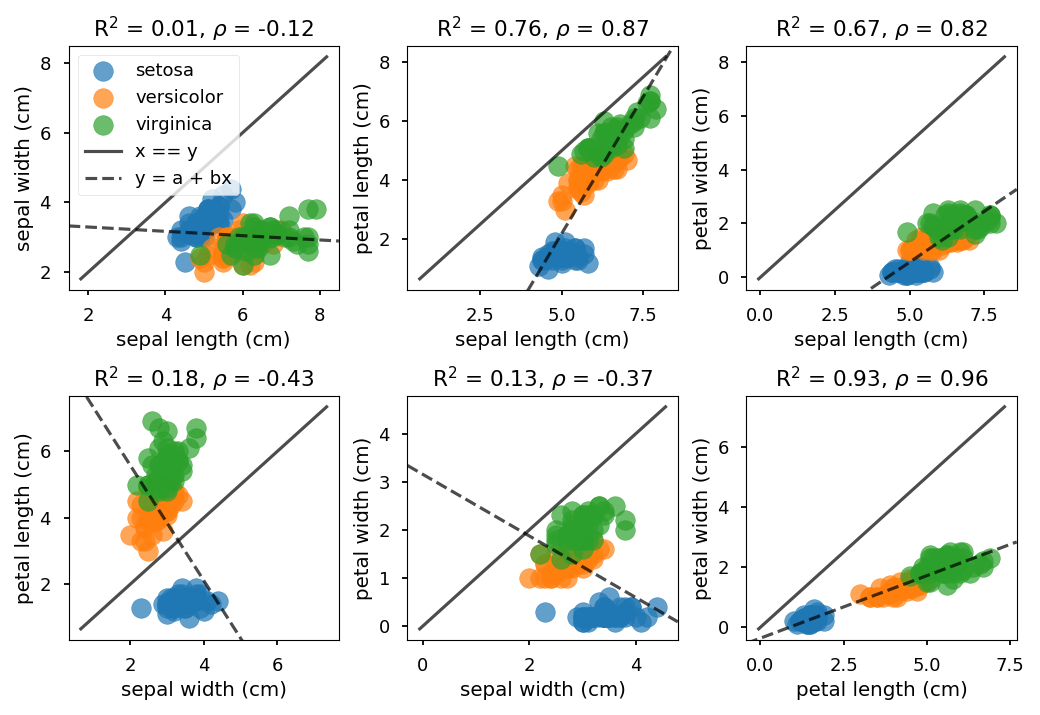
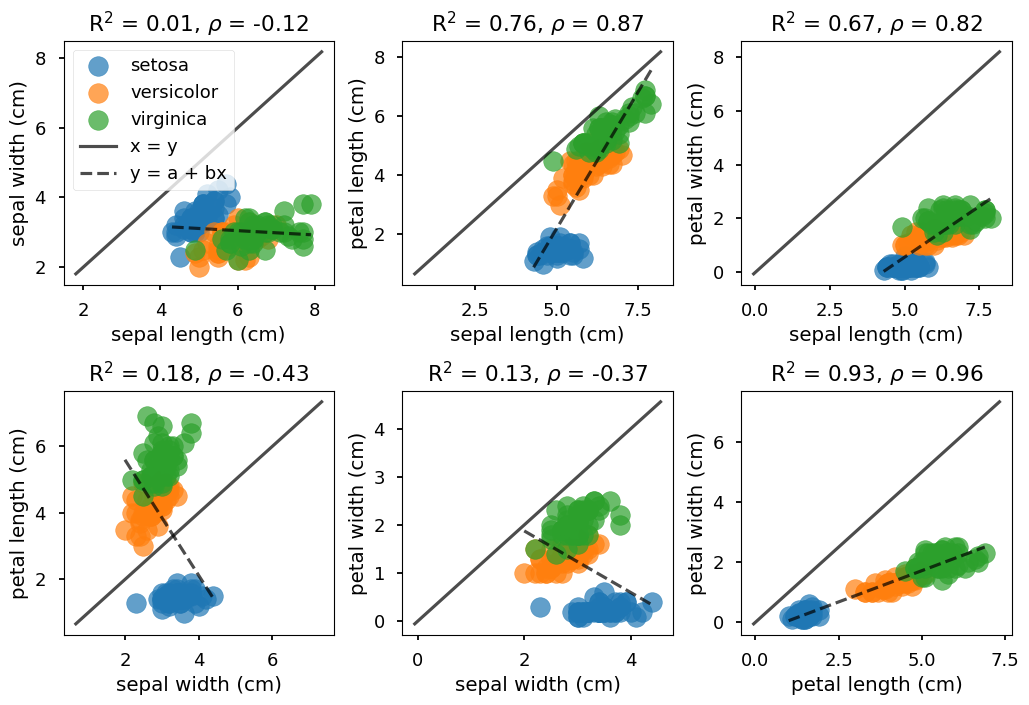
Added histogram.

diff --git a/psynlig/scatter.py b/psynlig/scatter.py
@@ -3,11 +3,10 @@
 """A module for generating scatter plots of variables."""
 from itertools import combinations
 import warnings
-import numpy as np
 from matplotlib import pyplot as plt
 from mpl_toolkits.mplot3d import Axes3D  # pylint: disable=unused-import
 from scipy.special import comb
-from .colors import generate_colors
+from .colors import generate_class_colors
 from .common import create_fig_and_axes, add_xy_line, add_trendline
 
 
@@ -18,37 +17,6 @@ _WARNING_MAX_PLOTS = (
     'all these plots, rerun the function with the '
     'argument "max_plots={0}".'
 )
-
-
-def _generate_class_colors(class_data):
-    """Generate colors for classes.
-
-    Parameters
-    ----------
-    class_data : object like :py:class:`numpy.ndarray` or None
-        The (numeric) labels for the data.
-
-    Returns
-    -------
-    color_class : list of objects like :py:class:`numpy.ndarray`
-        The colors generated.
-    color_labels : dict of objects like :py:class:`numpy.ndarray`
-        Colors for the different classes.
-    idx_class : dict of integers
-        Indices for data classes.
-
-    """
-    classes = None
-    color_class = None
-    color_labels = {}
-    idx_class = {}
-    if class_data is not None:
-        classes = list(set(class_data))
-        color_class = generate_colors(len(classes))
-        for i in classes:
-            color_labels[i] = color_class[i]
-            idx_class[i] = np.where(class_data == i)[0]
-    return color_class, color_labels, idx_class
 
 
 def create_scatter_legend(axi, color_labels, class_names, show=False,
@@ -120,9 +88,16 @@ def plot_scatter(data, xvar, yvar, axi=None, class_data=None, class_names=None,
     kwargs : dict, optional
         Additional settings for the plotting.
 
+    Returns
+    -------
+    fig : object like :py:class:`matplotlib.figure.Figure`
+        The figure containing the plot.
+    axi : object like py:class:`matplotlib.axes.Axes`
+        The axis containing the plot.
+
     """
     patches, labels = [], []
-    color_class, color_labels, idx_class = _generate_class_colors(class_data)
+    color_class, color_labels, idx_class = generate_class_colors(class_data)
     fig = None
     if axi is None:
         fig, axi = plt.subplots()
@@ -144,7 +119,7 @@ def plot_scatter(data, xvar, yvar, axi=None, class_data=None, class_names=None,
     if xy_line:
         line_xy = add_xy_line(axi, alpha=0.7, color='black')
         patches.append(line_xy)
-        labels.append('x == y')
+        labels.append('x = y')
     if trendline:
         line_trend = add_trendline(axi, data[xvar], data[yvar],
                                    alpha=0.7, ls='--', color='black')
@@ -158,7 +133,8 @@ def plot_scatter(data, xvar, yvar, axi=None, class_data=None, class_names=None,
 
 
 def generate_scatter(data, variables, class_data=None, class_names=None,
-                     max_plot_scatter=6, ncol=3, **kwargs):
+                     max_plots=6, ncol=3, sharex=False, sharey=False,
+                     **kwargs):
     """Generate 2D scatter plots from the given data and variables.
 
     This method will generate 2D scatter plots for all combinations
@@ -174,17 +150,29 @@ def generate_scatter(data, variables, class_data=None, class_names=None,
         Class information for the points (if available).
     class_names : dict of strings, optional
         A mapping from the class data to labels/names.
-    max_plot_scatter : integer
+    max_plots : integer, optional
         The maximun number of plots in a figure.
-    ncol : integer
+    ncol : integer, optional
         The number of columns to use in a figure.
+    sharex : boolean, optional
+        If True, the scatter plots will share the x-axis.
+    sharey : boolean, optional
+        If True, the scatter plots will share the y-axis.
     kwargs : dict, optional
         Additional arguments used for the plotting.
+
+    Returns
+    -------
+    figures : list of object like :py:class:`matplotlib.figure.Figure`
+        The figures containing the plots.
+    axes : list of object like py:class:`matplotlib.axes.Axes`
+        The axes containing the plots.
 
     """
 
     nplots = comb(len(variables), 2, exact=True)
-    figures, axes = create_fig_and_axes(nplots, max_plot_scatter, ncol=ncol)
+    figures, axes = create_fig_and_axes(nplots, max_plots, ncol=ncol,
+                                        sharex=sharex, sharey=sharey)
 
     fig = None
     for i, (xvar, yvar) in enumerate(combinations(variables, 2)):
@@ -236,7 +224,7 @@ def plot_3d_scatter(data, xvar, yvar, zvar, class_data=None,
         The axis containing the plot.
 
     """
-    color_class, color_labels, idx_class = _generate_class_colors(class_data)
+    color_class, color_labels, idx_class = generate_class_colors(class_data)
     fig = plt.figure()
     axi = fig.add_subplot(111, projection='3d')
     axi.set_xlabel(xvar, labelpad=15)

diff --git a/psynlig/histogram.py b/psynlig/histogram.py
@@ -1,0 +1,74 @@
+# Copyright (c) 2020, Anders Lervik.
+# Distributed under the MIT License. See LICENSE for more info.
+"""A module for generating histograms plots of variables."""
+from .colors import generate_class_colors
+from .common import create_fig_and_axes
+
+
+def histograms(data, variables, class_data=None, class_names=None,
+               max_plots=6, ncol=3, sharex=False, sharey=False, **kwargs):
+    """Generate histogram(s) from the given data.
+
+    Parameters
+    ----------
+    data : object like :py:class:`pandas.core.frame.DataFrame`
+        The data we are plotting.
+    variables : list of strings
+        The variables we are going to plot for.
+    class_data : object like, optional
+        Class information for the points (if available).
+    class_names : dict of strings
+        A mapping from the class data to labels/names.
+    max_plots : integer
+        Maximum number of plots to keep in one figure.
+    ncol : integer
+        Number of columns to use when plotting several histograms
+        in the same figure.
+    sharex : boolean, optional
+        If True, the histograms will share the x-axis.
+    sharey : boolean, optional
+        If True, the histograms will share the y-axis.
+    kwargs : dict, optional
+        Additional settings for the plotting.
+
+    Returns
+    -------
+    figures : list of object like :py:class:`matplotlib.figure.Figure`
+        The figures containing the plots.
+    axes : list of object like py:class:`matplotlib.axes.Axes`
+        The axes containing the plots
+
+    """
+    nplots = len(variables)
+    figures, axes = create_fig_and_axes(
+        nplots,
+        max_plots,
+        ncol=ncol,
+        sharex=sharex,
+        sharey=sharey
+    )
+    color_class, _, idx_class = generate_class_colors(class_data)
+    fig = None
+    for i, xvar in enumerate(variables):
+        show_legend = False
+        if axes[i].figure != fig:
+            fig = axes[i].figure
+            show_legend = True
+        axes[i].set(xlabel=xvar, ylabel='Frequency')
+        if class_data is None:
+            axes[i].hist(data[xvar], **kwargs)
+        else:
+            for class_id, idx in idx_class.items():
+                axes[i].hist(
+                    data[xvar][idx],
+                    color=color_class[class_id],
+                    label=class_names[class_id],
+                    density=False,
+                    **kwargs
+                )
+                if show_legend:
+                    axes[i].legend()
+    for fig in figures:
+        fig.tight_layout()
+        fig.tight_layout()
+    return figures, axes

diff --git a/psynlig/common.py b/psynlig/common.py
@@ -29,7 +29,7 @@ def create_grid(n_plots, ncol):
     return grid
 
 
-def create_fig_and_axes(nplots, max_plots, ncol=3):
+def create_fig_and_axes(nplots, max_plots, ncol=3, sharex=False, sharey=False):
     """Create a set of figures and axes.
 
     The number of plots per figure is limited to the given parameter
@@ -43,6 +43,10 @@ def create_fig_and_axes(nplots, max_plots, ncol=3):
         The maximum number of plots in a figure.
     ncol : integer
         The number of columns to create in each plot.
+    sharex : boolean
+        If True, the axes will share the x-axis.
+    sharey : boolean
+        If True, the axes will share the y-axis.
 
     Returns
     -------
@@ -65,9 +69,22 @@ def create_fig_and_axes(nplots, max_plots, ncol=3):
         nplots -= plots
         figi = plt.figure()
         figures.append(figi)
+        ax0 = None
         for j in range(plots):
             row, col = divmod(j, ncol)
-            axi = figi.add_subplot(grid[row, col])
+            if ax0 is None:
+                ax0 = axi = figi.add_subplot(grid[row, col])
+            else:
+                if sharex and sharey:
+                    axi = figi.add_subplot(grid[row, col],
+                                           sharex=ax0, sharey=ax0)
+                else:
+                    if sharex:
+                        axi = figi.add_subplot(grid[row, col], sharex=ax0)
+                    elif sharey:
+                        axi = figi.add_subplot(grid[row, col], sharey=ax0)
+                    else:
+                        axi = figi.add_subplot(grid[row, col])
             axes.append(axi)
     return figures, axes
 
@@ -117,16 +134,11 @@ def add_trendline(axi, xdata, ydata, **kwargs):
     param = np.polyfit(xdata, ydata, 1)
     yhat = np.polyval(param, xdata)
     rsq = get_rsquared(ydata, yhat)
-    xlim, ylim = axi.get_xlim(), axi.get_ylim()
     corr = pearsonr(xdata, ydata)
     text = r'R$^2$ = {:.2f}, $\rho$ = {:.2f}'.format(rsq, corr[0])
-    lim_min = np.min([axi.get_xlim(), axi.get_ylim()])
-    lim_max = np.max([axi.get_xlim(), axi.get_ylim()])
-    xpoint = np.array([lim_min, lim_max])
+    xpoint = np.array([min(xdata), max(xdata)])
     line, = axi.plot(xpoint, np.polyval(param, xpoint), **kwargs)
     axi.set_title(text)
-    axi.set_xlim(xlim)
-    axi.set_ylim(ylim)
     return line
 
 

diff --git a/psynlig/colors.py b/psynlig/colors.py
@@ -36,3 +36,34 @@ def generate_colors(ncolors, cmap_name=None):
         return cmap(np.linspace(0, 1, 20))
     cmap = get_cmap(name='viridis')
     return cmap(np.linspace(0, 1, ncolors))
+
+
+def generate_class_colors(class_data):
+    """Generate colors for classes.
+
+    Parameters
+    ----------
+    class_data : object like :py:class:`numpy.ndarray` or None
+        The (numeric) labels for the data.
+
+    Returns
+    -------
+    color_class : list of objects like :py:class:`numpy.ndarray`
+        The colors generated.
+    color_labels : dict of objects like :py:class:`numpy.ndarray`
+        Colors for the different classes.
+    idx_class : dict of integers
+        Indices for data classes.
+
+    """
+    classes = None
+    color_class = None
+    color_labels = {}
+    idx_class = {}
+    if class_data is not None:
+        classes = list(set(class_data))
+        color_class = generate_colors(len(classes))
+        for i in classes:
+            color_labels[i] = color_class[i]
+            idx_class[i] = np.where(class_data == i)[0]
+    return color_class, color_labels, idx_class

diff --git a/examples/histogram/histogram_readme.py b/examples/histogram/histogram_readme.py
@@ -4,7 +4,7 @@
 from matplotlib import pyplot as plt
 import pandas as pd
 from sklearn.datasets import load_iris
-from psynlig import generate_scatter
+from psynlig import histograms
 plt.style.use('seaborn-talk')
 
 
@@ -14,7 +14,8 @@ class_data = data_set['target']
 class_names = dict(enumerate(data_set['target_names']))
 variables = ['sepal length (cm)', 'sepal width (cm)',
              'petal length (cm)', 'petal width (cm)']
-figs, _ = generate_scatter(data, variables, class_names=class_names,
-                           class_data=class_data, marker='o', s=200, alpha=0.7)
-figs[0].savefig('scatter2d.png', bbox_inches='tight')
+figs, _ = histograms(data, variables, class_names=class_names,
+                     class_data=class_data, ncol=2, max_plots=4,
+                     edgecolor='black', alpha=0.8)
+figs[0].savefig('histogram.png', bbox_inches='tight')
 plt.show()

diff --git a/examples/scatter/scatter_readme_3d.py b/examples/scatter/scatter_readme_3d.py
@@ -12,7 +12,8 @@ data_set = load_iris()
 data = pd.DataFrame(data_set['data'], columns=data_set['feature_names'])
 class_data = data_set['target']
 class_names = dict(enumerate(data_set['target_names']))
-plot_3d_scatter(data, 'sepal length (cm)', 'sepal width (cm)',
-                'petal length (cm)', class_names=class_names,
-                class_data=class_data, marker='o', s=200, alpha=0.7)
+fig, _ = plot_3d_scatter(data, 'sepal length (cm)', 'sepal width (cm)',
+                         'petal length (cm)', class_names=class_names,
+                         class_data=class_data, marker='o', s=200, alpha=0.7)
+fig.savefig('scatter3d.png', bbox_inches='tight')
 plt.show()

diff --git a/examples/scatter/scatter_2d.py b/examples/scatter/scatter_2d.py
@@ -49,7 +49,7 @@ def main():
         variables,
         class_names=class_names,
         class_data=class_data,
-        max_plot_scatter=6,
+        max_plots=6,
         ncol=3,
         marker='o',
         s=200,

diff --git a/psynlig/__init__.py b/psynlig/__init__.py
@@ -10,3 +10,4 @@ from .scatter import (
     plot_scatter,
     generate_scatter,
 )
+from .histogram import histograms

diff --git a/README.md b/README.md
@@ -5,6 +5,7 @@ A library for creating plots with matplotlib.
 ## Examples
 
 ### Generating a heat map for correlations
+
 The following code
 ```python
 from matplotlib import pyplot as plt
@@ -25,7 +26,8 @@ will generate the following figure:
 
 ![heatmap](examples/heat_correlation/heatmap_example.png)
 
-## Generating scatter plots for raw data
+### Generating scatter plots for raw data
+
 The following code
 ```python
 from matplotlib import pyplot as plt
@@ -71,3 +73,29 @@ plt.show()
 will generate the following figure:
 ![scatter2d](examples/scatter/scatter2d.png)
 
+### Generating histograms
+
+The following code
+```python
+from matplotlib import pyplot as plt
+import pandas as pd
+from sklearn.datasets import load_iris
+from psynlig import histograms
+plt.style.use('seaborn-talk')
+
+
+data_set = load_iris()
+data = pd.DataFrame(data_set['data'], columns=data_set['feature_names'])
+class_data = data_set['target']
+class_names = dict(enumerate(data_set['target_names']))
+variables = ['sepal length (cm)', 'sepal width (cm)',
+             'petal length (cm)', 'petal width (cm)']
+figs, _ = histograms(data, variables, class_names=class_names,
+                     class_data=class_data, ncol=2, max_plots=4,
+                     edgecolor='black', alpha=0.8)
+figs[0].savefig('histogram.png', bbox_inches='tight')
+plt.show()
+```
+
+will generate the following figure:
+![histogram](examples/histogram/histogram.png)
